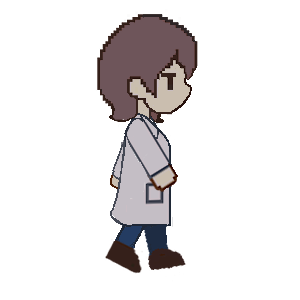
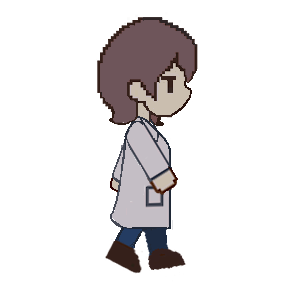
歩きモーションを自然に改良

Changed region(s): [[0.33, 0.24, 0.6, 0.78], [0.33, 0.03, 0.66, 0.21], [0.51, 0.15, 0.66, 0.36]]

diff --git a/final-assingnment/ai-chat-game-clock/src/app/Scroll2dGameScreen.tsx b/final-assingnment/ai-chat-game-clock/src/app/Scroll2dGameScreen.tsx
@@ -55,7 +55,11 @@ export default function Scroll2dGameScreen({
 
           this.anims.create({
             key: "walk",
-            frames: [{ key: "player_r_2" }, { key: "player_r_3" }],
+            frames: [
+              { key: "player_r_2" },
+              { key: "player_r_1" },
+              { key: "player_r_3" },
+            ],
             frameRate: 6,
             repeat: -1,
           });
@@ -132,7 +136,7 @@ export default function Scroll2dGameScreen({
           this.player.setTexture("player_r_1");
 
           this.time.delayedCall(500, () =>
-            setDialogue("このモノリス......キーボードと液晶がついてる")
+            setDialogue("......キーボードと液晶がついてる")
           );
           this.time.delayedCall(3000, () =>
             setDialogue("これでAIとチャットできるみたい")
